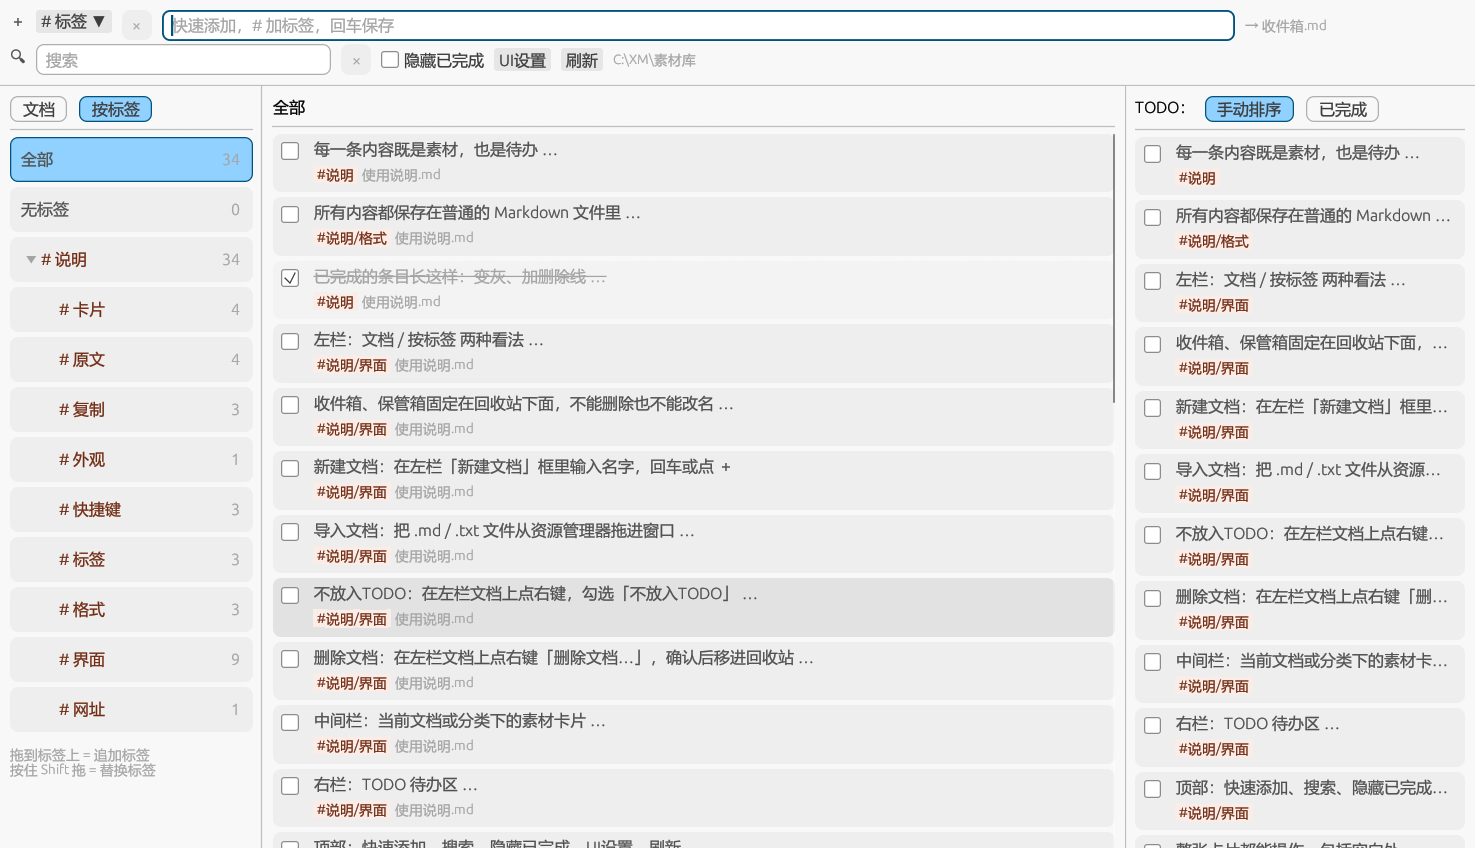
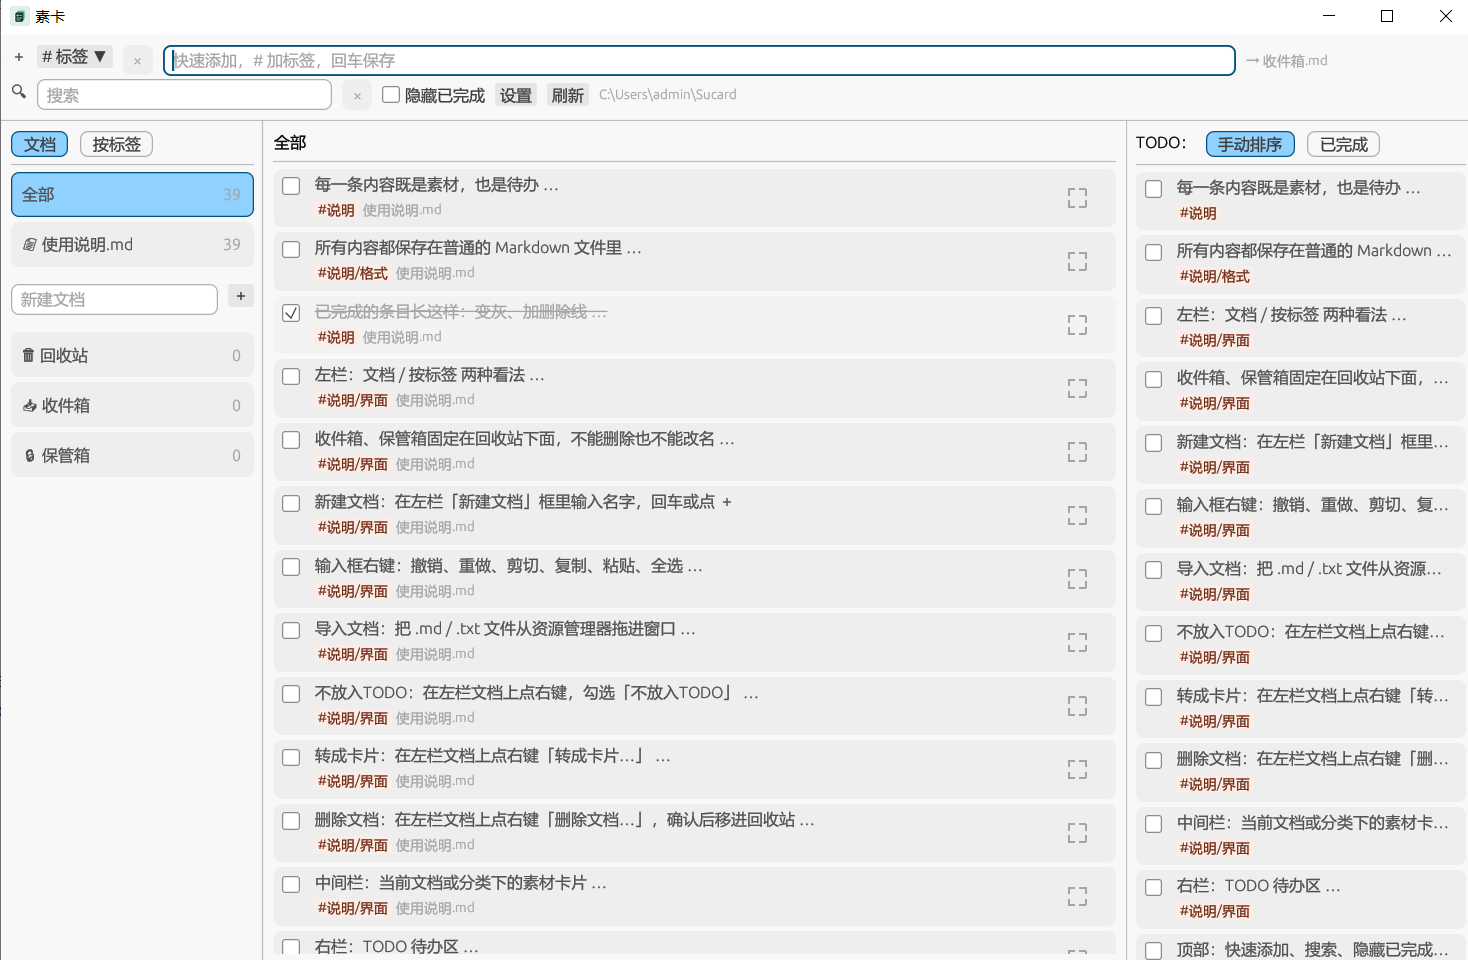
Docs: update screenshot, add settings window screenshot

diff --git a/README.md b/README.md
@@ -208,6 +208,8 @@ cargo test                       # 运行测试
 
 ## 外观设置
 
+<img src="docs/settings.png" width="360" alt="设置窗口截图">
+
 顶部“设置”按钮：主题（跟随系统 / 浅色 / 深色 / 护眼 / 樱米 / 薰衣草 / 深海 / 薄荷 / 羊皮纸；后面几套是配色主题，线条明显，配色表在 `src/main.rs` 的 `WARM_THEMES`，强调色选「默认蓝」时用主题自带的强调色）、强调色（7 个预设，或点最后的取色按钮完全自定义）、字号、小字大小（标签、文件名、提示等小字是正文的百分之几）、卡片间距、圆角、左栏块高度、光标闪烁，改了立刻生效，自动保存在 `.sucard/state.json`。
 数值项两边的 − / + 每点一下改一个最小步长。光标闪烁默认关闭：闪烁时程序在前台会一直重画（约占一个核 5%），关闭后空闲时不占 CPU。
 这些都是“改一次就生效”的配置，不会让程序在空闲时多占 CPU。
